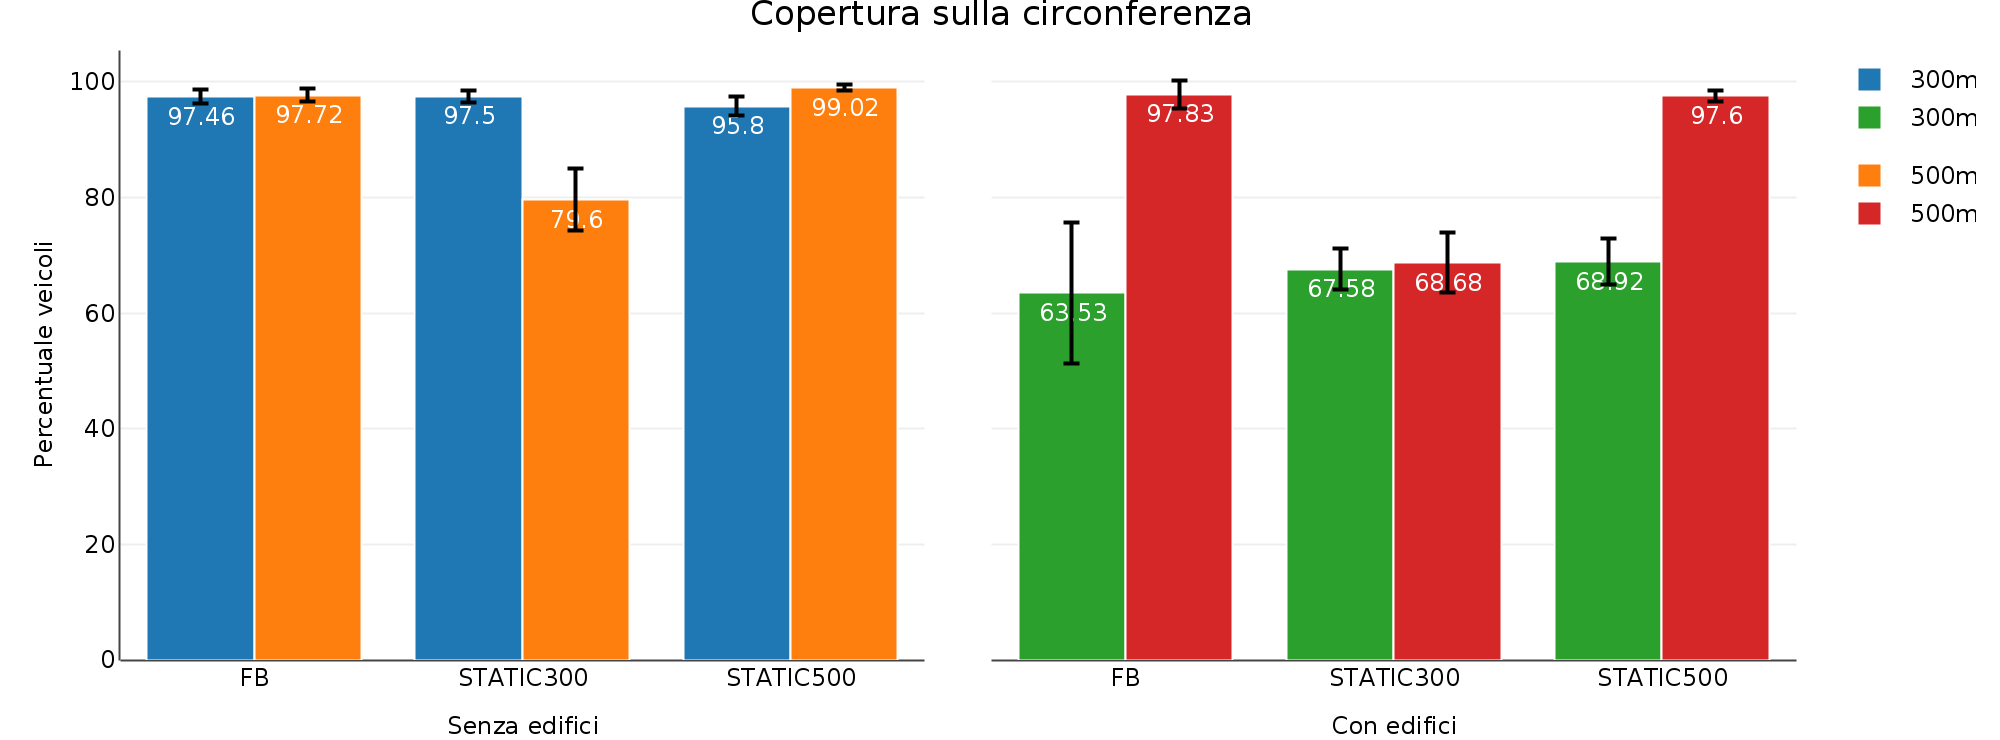
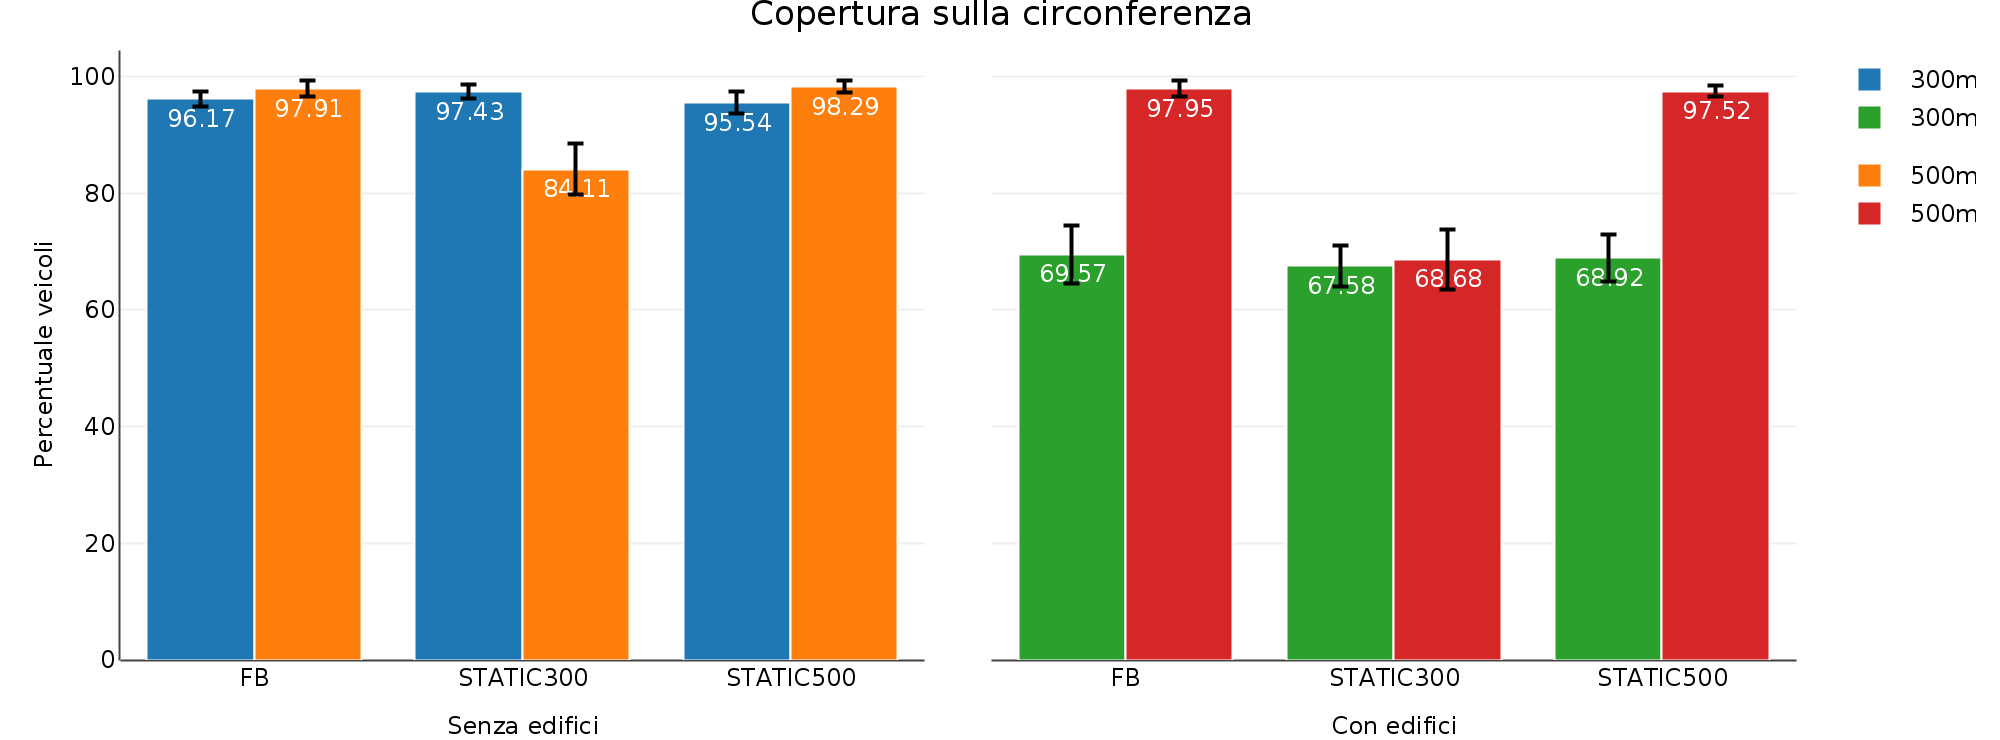
update images and tables

diff --git a/doc/thesis/chapters/risultati-in-tabella.tex b/doc/thesis/chapters/risultati-in-tabella.tex
@@ -3,11 +3,14 @@
 %!TeX spellcheck = it_IT
 %!TEX root = ../tesi.tex
 
+% TODO: da rifare
+
 \chapter{Tabelle dei risultati}\label{chap:risultati-in-tabella}
+\section{Scenario a griglia}
 %----------------------------------------------------------------------------------------
 % GRUPPO SIMULAZIONI : GRIGLIA
 %----------------------------------------------------------------------------------------
-\begin{table}[!h]
+\begin{table}[htbp]
 	\footnotesize
 	\centering
 	\begin{tabular}{| L{.2\linewidth} | l | C{.15\linewidth} | C{.15\linewidth} |}
@@ -15,30 +18,30 @@
 		\multicolumn{2}{|l|}{\multirow{2}{*}{Protocollo e raggio trasmissivo}}	&		\multicolumn{2}{c|}{Copertura totale} 		\\	\cline{3-4}
 		\multicolumn{2}{|l|}{}																									&		Senza edifici				& 	Con edifici				\\
 		\thickerline
-		\multirow{2}{*}{Fast Broadcast}		&	$300$m															&			$97,46$\%					&			$92,66$\%					\\ \cline{2-4}
-																			&	$500$m															&			$98,14$\%					& 		$94,27$\%					\\ \hline
-		\multirow{2}{*}{\statica}					&	$300$m															&			$92,61$\%					&			$92,66$\%					\\ \cline{2-4}
-																			&	$500$m															&			$98,59$\%					& 		$94,25$\%					\\	\hline
-		\multirow{2}{*}{\staticb}					&	$300$m															&			$96,54$\%					&			$94,86$\%					\\ \cline{2-4}
-																			&	$500$m															&			$98,26$\%					& 		$93,75$\%					\\
+		\multirow{2}{*}{Fast Broadcast}		&	$300$m															&			$97,46$\%					&			$97,29$\%					\\ \cline{2-4}
+																			&	$500$m															&			$98,14$\%					& 		$98,25$\%					\\ \hline
+		\multirow{2}{*}{\statica}					&	$300$m															&			$97,46$\%					&			$97,34$\%					\\ \cline{2-4}
+																			&	$500$m															&			$98,59$\%					& 		$98,59$\%					\\	\hline
+		\multirow{2}{*}{\staticb}					&	$300$m															&			$96,54$\%					&			$96,68$\%					\\ \cline{2-4}
+																			&	$500$m															&			$98,26$\%					& 		$98,09$\%					\\
 		\bottomrule
 		\multicolumn{4}{c}{} 	\\
 		\toprule
 		\multicolumn{2}{|l|}{\multirow{2}{*}{Protocollo e raggio trasmissivo}}	&		\multicolumn{2}{c|}{Copertura sulla circonferenza} 		\\	\cline{3-4}
 		\multicolumn{2}{|l|}{}																									&		Senza edifici				& 	Con edifici				\\
 		\thickerline
-		\multirow{2}{*}{Fast Broadcast}		&	$300$m															&			$97,00$\%					&			$93,00$\%					\\ \cline{2-4}
-																			&	$500$m															&			$97,28$\%					& 		$96,78$\%					\\ \hline
-		\multirow{2}{*}{\statica}					&	$300$m															&			$97,22$\%					&			$91,65$\%					\\ \cline{2-4}
-																			&	$500$m															&			$98,22$\%					& 		$96,33$\%					\\	\hline
-		\multirow{2}{*}{\staticb}					&	$300$m															&			$97,17$\%					&			$96,17$\%					\\ \cline{2-4}
-																			&	$500$m															&			$97,33$\%					& 		$97,06$\%					\\
+		\multirow{2}{*}{Fast Broadcast}		&	$300$m															&			$97,00$\%					&			$97,44$\%					\\ \cline{2-4}
+																			&	$500$m															&			$97,28$\%					& 		$97,44$\%					\\ \hline
+		\multirow{2}{*}{\statica}					&	$300$m															&			$97,22$\%					&			$97,50$\%					\\ \cline{2-4}
+																			&	$500$m															&			$98,22$\%					& 		$99,28$\%					\\	\hline
+		\multirow{2}{*}{\staticb}					&	$300$m															&			$97,17$\%					&			$97,06$\%					\\ \cline{2-4}
+																			&	$500$m															&			$97,33$\%					& 		$98,11$\%					\\
 		\bottomrule
 	\end{tabular}
-	\caption{Scenario a griglia: copertura di veicoli in totale e sulla circonferenza.\label{tab:risulati-simulazioni-griglia-copertura}}
+	\caption{Scenario a griglia: copertura dei veicoli in totale e sulla circonferenza.\label{tab:risulati-simulazioni-griglia-copertura}}
 \end{table}
 %
-\begin{table}[!h]
+\begin{table}[htbp]
 	\footnotesize
 	\centering
 	\begin{tabular}{| L{.2\linewidth} | l | C{.15\linewidth} | C{.15\linewidth} |}
@@ -46,14 +49,218 @@
 		\multicolumn{2}{|l|}{\multirow{2}{*}{Protocollo e raggio trasmissivo}}	&		\multicolumn{2}{c|}{Numero di salti} 		\\	\cline{3-4}
 		\multicolumn{2}{|l|}{}																									&		Senza edifici				& 	Con edifici				\\
 		\thickerline
-		\multirow{2}{*}{Fast Broadcast}		&	$300$m															&			$10,240$\%				&			$11,247$\%				\\ \cline{2-4}
-																			&	$500$m															&			$5,581$\%					& 		$6,309$\%					\\ \hline
-		\multirow{2}{*}{\statica}					&	$300$m															&			$10,201$\%				&			$11,150$\%				\\ \cline{2-4}
-																			&	$500$m															&			$6,013$\%					& 		$6,360$\%					\\	\hline
-		\multirow{2}{*}{\staticb}					&	$300$m															&			$11,797$\%				&			$13,154$\%				\\ \cline{2-4}
-																			&	$500$m															&			$5,632$\%					& 		$6,270$\%					\\
+		\multirow{2}{*}{Fast Broadcast}		&	$300$m															&			$10,240$				&			$10,301$				\\ \cline{2-4}
+																			&	$500$m															&			$5,581$					& 		$5,623$					\\ \hline
+		\multirow{2}{*}{\statica}					&	$300$m															&			$10,201$				&			$10,221$				\\ \cline{2-4}
+																			&	$500$m															&			$6,013$					& 		$6,047$					\\	\hline
+		\multirow{2}{*}{\staticb}					&	$300$m															&			$11,797$				&			$11,960$				\\ \cline{2-4}
+																			&	$500$m															&			$5,632$					& 		$5,577$					\\
 		\bottomrule
 	\end{tabular}
-	\caption{Scenario a griglia: numero di salti per inoltrare il messaggio fino al bordo della griglia.\label{tab:risulati-simulazioni-griglia-salti}}
+	\caption{Scenario a griglia: numero di salti.\label{tab:risulati-simulazioni-griglia-salti}}
 \end{table}
+%
+\begin{table}[htbp]
+	\footnotesize
+	\centering
+	\begin{tabular}{| L{.2\linewidth} | l | C{.15\linewidth} | C{.15\linewidth} |}
+	\toprule
+	\multicolumn{2}{|l|}{\multirow{2}{*}{Protocollo e raggio trasmissivo}}	&		\multicolumn{2}{c|}{Messaggi inviati} 		\\	\cline{3-4}
+	\multicolumn{2}{|l|}{}																									&		Senza edifici				& 	Con edifici				\\
+	\thickerline
+	\multirow{2}{*}{Fast Broadcast}		&	$300$m															&			$271$					&			$275$					\\ \cline{2-4}
+																		&	$500$m															&			$90$						& 		$96$					\\ \hline
+	\multirow{2}{*}{\statica}					&	$300$m															&			$269$						&			$275$				\\ \cline{2-4}
+																		&	$500$m															&			$94$						& 		$98$				\\	\hline
+	\multirow{2}{*}{\staticb}					&	$300$m															&			$279$						&			$286$					\\ \cline{2-4}
+																		&	$500$m															&			$90$					& 		$95$						\\
+	\bottomrule
+	\multicolumn{4}{c}{} 	\\
+	\toprule
+	\multicolumn{2}{|l|}{\multirow{2}{*}{Protocollo e raggio trasmissivo}}	&		\multicolumn{2}{c|}{Messaggi ricevuti} 		\\	\cline{3-4}
+	\multicolumn{2}{|l|}{}																									&		Senza edifici				& 	Con edifici				\\
+	\thickerline
+	\multirow{2}{*}{Fast Broadcast}		&	$300$m															&			$27525$						&			$27694$					\\ \cline{2-4}
+																		&	$500$m															&			$30231$						& 		$32288$						\\ \hline
+	\multirow{2}{*}{\statica}					&	$300$m															&			$27359$					&			$27626$						\\ \cline{2-4}
+																		&	$500$m															&			$31775$						& 		$33199$					\\	\hline
+	\multirow{2}{*}{\staticb}					&	$300$m															&			$28947$						&			$29279$					\\ \cline{2-4}
+																		&	$500$m															&			$30426$					& 		$32116$					\\
+	\bottomrule
+\end{tabular}
+\caption{Scenario a griglia: numero di messaggi di inoltro inviati e ricevuti.\label{tab:risulati-simulazioni-griglia-copertura}}
+\end{table}
+\clearpage
+%
+\section{Scenario Los Angeles}
+%----------------------------------------------------------------------------------------
+% GRUPPO SIMULAZIONI : LA
+%----------------------------------------------------------------------------------------
+\begin{table}[htbp]
+	\footnotesize
+	\centering
+	\begin{tabular}{| L{.2\linewidth} | l | C{.15\linewidth} | C{.15\linewidth} |}
+		\toprule
+		\multicolumn{2}{|l|}{\multirow{2}{*}{Protocollo e raggio trasmissivo}}	&		\multicolumn{2}{c|}{Copertura totale} 		\\	\cline{3-4}
+		\multicolumn{2}{|l|}{}																									&		Senza edifici				& 	Con edifici				\\
+		\thickerline
+		\multirow{2}{*}{Fast Broadcast}		&	$300$m															&			$97,60$\%					&			$69,55$\%					\\ \cline{2-4}
+																			&	$500$m															&			$98,40$\%					& 		$91,69$\%					\\ \hline
+		\multirow{2}{*}{\statica}					&	$300$m															&			$97,82$\%					&			$68,76$\%					\\ \cline{2-4}
+																			&	$500$m															&			$85,33$\%					& 		$71,60$\%					\\	\hline
+		\multirow{2}{*}{\staticb}					&	$300$m															&			$97,41$\%					&			$69,86$\%					\\ \cline{2-4}
+																			&	$500$m															&			$98,40$\%					& 		$93,87$\%					\\
+		\bottomrule
+		\multicolumn{4}{c}{} 	\\
+		\toprule
+		\multicolumn{2}{|l|}{\multirow{2}{*}{Protocollo e raggio trasmissivo}}	&		\multicolumn{2}{c|}{Copertura sulla circonferenza} 		\\	\cline{3-4}
+		\multicolumn{2}{|l|}{}																									&		Senza edifici				& 	Con edifici				\\
+		\thickerline
+		\multirow{2}{*}{Fast Broadcast}		&	$300$m															&			$96,17$\%					&			$69,57$\%					\\ \cline{2-4}
+																			&	$500$m															&			$97,91$\%					& 		$97,95$\%					\\ \hline
+		\multirow{2}{*}{\statica}					&	$300$m															&			$97,43$\%					&			$68,68$\%					\\ \cline{2-4}
+																			&	$500$m															&			$84,11$\%					& 		$68,92$\%					\\	\hline
+		\multirow{2}{*}{\staticb}					&	$300$m															&			$95,54$\%					&			$68,92$\%					\\ \cline{2-4}
+																			&	$500$m															&			$98,29$\%					& 		$97,52 $\%					\\
+		\bottomrule
+	\end{tabular}
+	\caption{Scenario L.A.: copertura dei veicoli in totale e sulla circonferenza.\label{tab:risulati-simulazioni-griglia-copertura}}
+\end{table}
+%
+\begin{table}[htbp]
+	\footnotesize
+	\centering
+	\begin{tabular}{| L{.2\linewidth} | l | C{.15\linewidth} | C{.15\linewidth} |}
+		\toprule
+		\multicolumn{2}{|l|}{\multirow{2}{*}{Protocollo e raggio trasmissivo}}	&		\multicolumn{2}{c|}{Numero di salti} 		\\	\cline{3-4}
+		\multicolumn{2}{|l|}{}																									&		Senza edifici				& 	Con edifici				\\
+		\thickerline
+		\multirow{2}{*}{Fast Broadcast}		&	$300$m															&			$4,193$				&			$5,837$				\\ \cline{2-4}
+																			&	$500$m															&			$2,195$					& 		$2,058$					\\ \hline
+		\multirow{2}{*}{\statica}					&	$300$m															&			$4,076$				&			$5,919$				\\ \cline{2-4}
+																			&	$500$m															&			$2,805$					& 		$3,662$					\\	\hline
+		\multirow{2}{*}{\staticb}					&	$300$m															&			$4,549$				&			$6,263$				\\ \cline{2-4}
+																			&	$500$m															&			$2,167$					& 		$2,090$					\\
+		\bottomrule
+	\end{tabular}
+	\caption{Scenario L.A.: numero di salti.\label{tab:risulati-simulazioni-griglia-salti}}
+\end{table}
+%
+\begin{table}[htbp]
+	\footnotesize
+	\centering
+	\begin{tabular}{| L{.2\linewidth} | l | C{.15\linewidth} | C{.15\linewidth} |}
+	\toprule
+	\multicolumn{2}{|l|}{\multirow{2}{*}{Protocollo e raggio trasmissivo}}	&		\multicolumn{2}{c|}{Messaggi inviati} 		\\	\cline{3-4}
+	\multicolumn{2}{|l|}{}																									&		Senza edifici				& 	Con edifici				\\
+	\thickerline
+	\multirow{2}{*}{Fast Broadcast}		&	$300$m															&			$62$					&			$185$					\\ \cline{2-4}
+																		&	$500$m															&			$27$						& 		$78$					\\ \hline
+	\multirow{2}{*}{\statica}					&	$300$m															&			$62$						&			$178$				\\ \cline{2-4}
+																		&	$500$m															&			$21$						& 		$43$				\\	\hline
+	\multirow{2}{*}{\staticb}					&	$300$m															&			$62$						&			$185$					\\ \cline{2-4}
+																		&	$500$m															&			$27$					& 		$83$						\\
+	\bottomrule
+	\multicolumn{4}{c}{} 	\\
+	\toprule
+	\multicolumn{2}{|l|}{\multirow{2}{*}{Protocollo e raggio trasmissivo}}	&		\multicolumn{2}{c|}{Messaggi ricevuti} 		\\	\cline{3-4}
+	\multicolumn{2}{|l|}{}																									&		Senza edifici				& 	Con edifici				\\
+	\thickerline
+	\multirow{2}{*}{Fast Broadcast}		&	$300$m															&			$7146$						&			$4923$					\\ \cline{2-4}
+																		&	$500$m															&			$7484$						& 		$11483$						\\ \hline
+	\multirow{2}{*}{\statica}					&	$300$m															&			$7070$					&			$4776$						\\ \cline{2-4}
+																		&	$500$m															&			$6265$						& 		$6416$					\\	\hline
+	\multirow{2}{*}{\staticb}					&	$300$m															&			$7173$						&			$4994$					\\ \cline{2-4}
+																		&	$500$m															&			$7400$					& 		$12085$					\\
+	\bottomrule
+\end{tabular}
+\caption{Scenario L.A.: numero di messaggi di inoltro inviati e ricevuti.\label{tab:risulati-simulazioni-griglia-copertura}}
+\end{table}
+\clearpage
+%
+\section{Scenario Padova}
+%----------------------------------------------------------------------------------------
+% GRUPPO SIMULAZIONI : PD
+%----------------------------------------------------------------------------------------
+\begin{table}[htbp]
+	\footnotesize
+	\centering
+	\begin{tabular}{| L{.2\linewidth} | l | C{.15\linewidth} | C{.15\linewidth} |}
+		\toprule
+		\multicolumn{2}{|l|}{\multirow{2}{*}{Protocollo e raggio trasmissivo}}	&		\multicolumn{2}{c|}{Copertura totale} 		\\	\cline{3-4}
+		\multicolumn{2}{|l|}{}																									&		Senza edifici				& 	Con edifici				\\
+		\thickerline
+		\multirow{2}{*}{Fast Broadcast}		&	$300$m															&			$96,54$\%					&			$45,60$\%					\\ \cline{2-4}
+																			&	$500$m															&			$97,86$\%					& 		$94,08$\%					\\ \hline
+		\multirow{2}{*}{\statica}					&	$300$m															&			$96,84$\%					&			$47,45$\%					\\ \cline{2-4}
+																			&	$500$m															&			$69,85$\%					& 		$56,11$\%					\\	\hline
+		\multirow{2}{*}{\staticb}					&	$300$m															&			$96,52$\%					&			$50,30$\%					\\ \cline{2-4}
+																			&	$500$m															&			$97,86$\%					& 		$94,08$\%					\\
+		\bottomrule
+		\multicolumn{4}{c}{} 	\\
+		\toprule
+		\multicolumn{2}{|l|}{\multirow{2}{*}{Protocollo e raggio trasmissivo}}	&		\multicolumn{2}{c|}{Copertura sulla circonferenza} 		\\	\cline{3-4}
+		\multicolumn{2}{|l|}{}																									&		Senza edifici				& 	Con edifici				\\
+		\thickerline
+		\multirow{2}{*}{Fast Broadcast}		&	$300$m															&			$98,57$\%					&			$24,07$\%					\\ \cline{2-4}
+																			&	$500$m															&			$98,22$\%					& 		$94,83$\%					\\ \hline
+		\multirow{2}{*}{\statica}					&	$300$m															&			$97,23$\%					&			$22,06$\%					\\ \cline{2-4}
+																			&	$500$m															&			$70,48$\%					& 		$63,90$\%					\\	\hline
+		\multirow{2}{*}{\staticb}					&	$300$m															&			$98,15$\%					&			$27,78$\%					\\ \cline{2-4}
+																			&	$500$m															&			$98,21$\%					& 		$93,88$\%					\\
+		\bottomrule
+	\end{tabular}
+	\caption{Scenario Padova: copertura dei veicoli in totale e sulla circonferenza.\label{tab:risulati-simulazioni-griglia-copertura}}
+\end{table}
+%
+\begin{table}[htbp]
+	\footnotesize
+	\centering
+	\begin{tabular}{| L{.2\linewidth} | l | C{.15\linewidth} | C{.15\linewidth} |}
+		\toprule
+		\multicolumn{2}{|l|}{\multirow{2}{*}{Protocollo e raggio trasmissivo}}	&		\multicolumn{2}{c|}{Numero di salti} 		\\	\cline{3-4}
+		\multicolumn{2}{|l|}{}																									&		Senza edifici				& 	Con edifici				\\
+		\thickerline
+		\multirow{2}{*}{Fast Broadcast}		&	$300$m															&			$4,199$				&			$6,938$				\\ \cline{2-4}
+																			&	$500$m															&			$2,134$					& 		$2,128$					\\ \hline
+		\multirow{2}{*}{\statica}					&	$300$m															&			$4,100$				&			$6,619$				\\ \cline{2-4}
+																			&	$500$m															&			$2,801$					& 		$3,400$					\\	\hline
+		\multirow{2}{*}{\staticb}					&	$300$m															&			$4,628$				&			$7,574$				\\ \cline{2-4}
+																			&	$500$m															&			$2,168$					& 		$2,054$					\\
+		\bottomrule
+	\end{tabular}
+	\caption{Scenario Padova: numero di salti.\label{tab:risulati-simulazioni-griglia-salti}}
+\end{table}
+%
+\begin{table}[htbp]
+	\footnotesize
+	\centering
+	\begin{tabular}{| L{.2\linewidth} | l | C{.15\linewidth} | C{.15\linewidth} |}
+	\toprule
+	\multicolumn{2}{|l|}{\multirow{2}{*}{Protocollo e raggio trasmissivo}}	&		\multicolumn{2}{c|}{Messaggi inviati} 		\\	\cline{3-4}
+	\multicolumn{2}{|l|}{}																									&		Senza edifici				& 	Con edifici				\\
+	\thickerline
+	\multirow{2}{*}{Fast Broadcast}		&	$300$m															&			$72$					&			$218$					\\ \cline{2-4}
+																		&	$500$m															&			$32$						& 		$107$					\\ \hline
+	\multirow{2}{*}{\statica}					&	$300$m															&			$72$						&			$236$				\\ \cline{2-4}
+																		&	$500$m															&			$20$						& 		$44$				\\	\hline
+	\multirow{2}{*}{\staticb}					&	$300$m															&			$73$						&			$253$					\\ \cline{2-4}
+																		&	$500$m															&			$32$					& 		$106$						\\
+	\bottomrule
+	\multicolumn{4}{c}{} 	\\
+	\toprule
+	\multicolumn{2}{|l|}{\multirow{2}{*}{Protocollo e raggio trasmissivo}}	&		\multicolumn{2}{c|}{Messaggi ricevuti} 		\\	\cline{3-4}
+	\multicolumn{2}{|l|}{}																									&		Senza edifici				& 	Con edifici				\\
+	\thickerline
+	\multirow{2}{*}{Fast Broadcast}		&	$300$m															&			$8096$						&			$4151$					\\ \cline{2-4}
+																		&	$500$m															&			$8631$						& 		$14510$						\\ \hline
+	\multirow{2}{*}{\statica}					&	$300$m															&			$8020$					&			$4435$						\\ \cline{2-4}
+																		&	$500$m															&			$5768$						& 		$6168$					\\	\hline
+	\multirow{2}{*}{\staticb}					&	$300$m															&			$8200$						&			$4644$					\\ \cline{2-4}
+																		&	$500$m															&			$8634$					& 		$14280$					\\
+	\bottomrule
+\end{tabular}
+\caption{Scenario Padova: numero di messaggi di inoltro inviati e ricevuti.\label{tab:risulati-simulazioni-griglia-copertura}}
+\end{table}
+\clearpage
 %

diff --git a/doc/thesis/tesi.tex b/doc/thesis/tesi.tex
@@ -64,6 +64,7 @@
 %	FOOTERS
 %----------------------------------------------------------------------------------------
 
+% TODO: aggiungere tabelle
 \begin{appendices}
 		\include{chapters/risultati-in-tabella}
 \end{appendices}
